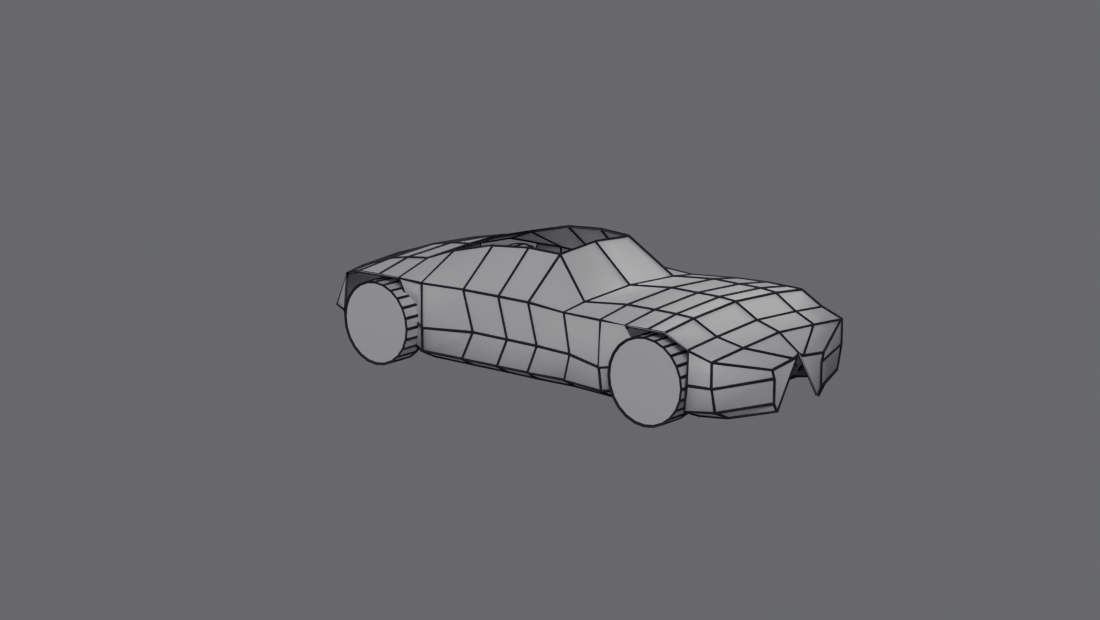
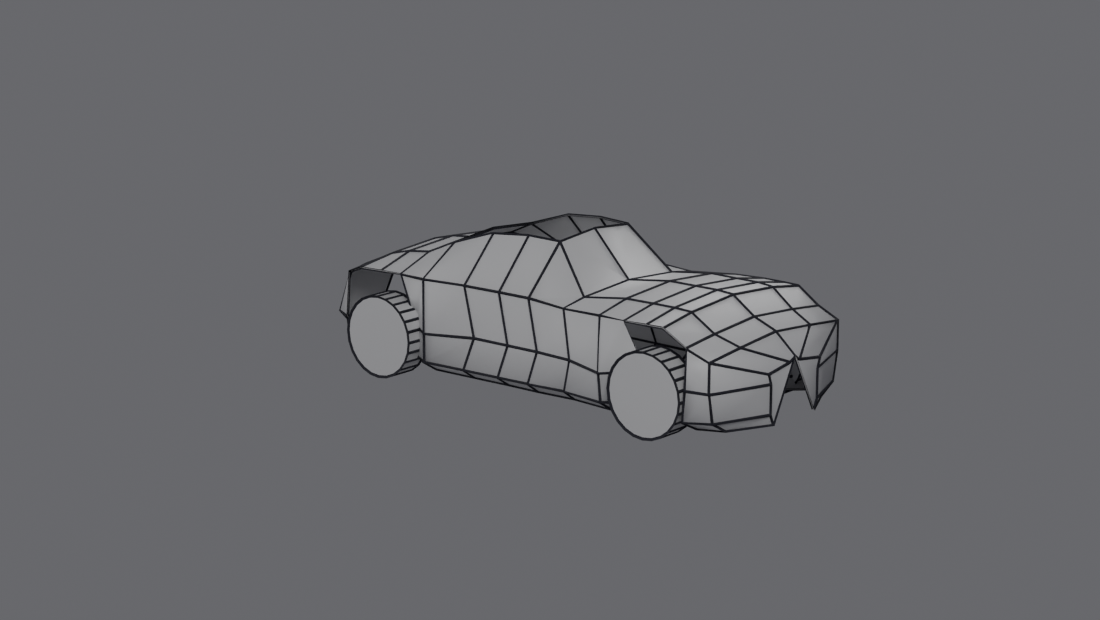
Re-proportion the body to the hero image's stance
Measured off the extracted reference rather than eyeballed: wheelbase divided
by roof height is 2.07 in the hero image against 2.57 as modelled, putting the
roof at 1051mm where the reference implies 1304mm. Scaling heights by 1.241
above the floor line brings it to 1278mm, a ratio of 2.11.

That single number is most of what made the model feel wrong. It was a flat
wedge where the reference is tall and muscular, and no amount of section or
crease work addresses a stance error.

Two other measurements from the same image were discarded rather than used.
Overall length is unusable because the frame clips the rear, which makes the
2.95 aspect ratio it yields meaningless. A tyre-diameter check failed too,
since the dark bodywork above each wheel merges with the tyre. Only ratios
whose endpoints are fully in frame survive.

Reference images are extracted to refs/ but left uncommitted — they are Optic
output from a Toyota tenant and this repository's visibility is unconfirmed.

Claude-Session: https://claude.ai/code/session_01Xx3q3FEn98y7dLvRCxTUeL

Changed region(s): [[0.3091, 0.3371, 0.7727, 0.7048]]

diff --git a/models/car_blockout.py b/models/car_blockout.py
@@ -135,30 +135,38 @@ def creases():
 # Modelling it as one width at every height gives a slab with holes cut in it,
 # which is what it was, and no amount of profile or crease tuning rescues that.
 PROFILE = [
-    ( 2.079, 0.49, 0.06, 0.33, 0.30, 0.30, 0.26),   # prow
-    ( 1.900, 0.62, 0.45, 0.83, 0.83, 0.78, 0.62),
-    ( 1.700, 0.68, 0.50, 0.85, 0.86, 0.88, 0.70),
-    ( 1.500, 0.79, 0.52, 0.87, 0.57, 0.57, 0.50),   # tub narrows, flare stays
-    ( 1.351, 0.80, 0.53, 0.88, 0.56, 0.58, 0.50),   # front axle
-    ( 1.150, 0.80, 0.53, 0.89, 0.60, 0.67, 0.56),
-    ( 0.900, 0.80, 0.54, 0.86, 0.88, 0.85, 0.70),
-    ( 0.500, 0.76, 0.55, 0.80, 0.73, 0.79, 0.66),
-    ( 0.150, 1.06, 0.42, 0.80, 0.70, 0.81, 0.68),   # screen
-    (-0.150, 1.07, 0.44, 0.80, 0.70, 0.82, 0.68),   # canopy crown
-    (-0.500, 1.04, 0.46, 0.81, 0.70, 0.83, 0.69),
-    (-0.900, 0.94, 0.47, 0.85, 0.85, 0.85, 0.70),
-    (-1.150, 0.85, 0.50, 0.84, 0.67, 0.69, 0.58),
-    (-1.351, 0.83, 0.52, 0.86, 0.65, 0.66, 0.56),   # rear axle
-    (-1.550, 0.79, 0.51, 0.88, 0.69, 0.69, 0.58),
-    (-1.750, 0.72, 0.50, 0.81, 0.84, 0.81, 0.66),
-    (-1.942, 0.66, 0.42, 0.60, 0.73, 0.50, 0.40),   # tail
+    ( 2.079, 0.58, 0.06, 0.33, 0.30, 0.30, 0.26),   # prow
+    ( 1.900, 0.74, 0.45, 0.83, 0.83, 0.78, 0.62),
+    ( 1.700, 0.82, 0.50, 0.85, 0.86, 0.88, 0.70),
+    ( 1.500, 0.96, 0.52, 0.87, 0.57, 0.57, 0.50),   # tub narrows, flare stays
+    ( 1.351, 0.97, 0.53, 0.88, 0.56, 0.58, 0.50),   # front axle
+    ( 1.150, 0.97, 0.53, 0.89, 0.60, 0.67, 0.56),
+    ( 0.900, 0.97, 0.54, 0.86, 0.88, 0.85, 0.70),
+    ( 0.500, 0.92, 0.55, 0.80, 0.73, 0.79, 0.66),
+    ( 0.150, 1.29, 0.42, 0.80, 0.70, 0.81, 0.68),   # screen
+    (-0.150, 1.30, 0.44, 0.80, 0.70, 0.82, 0.68),   # canopy crown
+    (-0.500, 1.27, 0.46, 0.81, 0.70, 0.83, 0.69),
+    (-0.900, 1.14, 0.47, 0.85, 0.85, 0.85, 0.70),
+    (-1.150, 1.03, 0.50, 0.84, 0.67, 0.69, 0.58),
+    (-1.351, 1.01, 0.52, 0.86, 0.65, 0.66, 0.56),   # rear axle
+    (-1.550, 0.96, 0.51, 0.88, 0.69, 0.69, 0.58),
+    (-1.750, 0.87, 0.50, 0.81, 0.84, 0.81, 0.66),
+    (-1.942, 0.80, 0.42, 0.60, 0.73, 0.50, 0.40),   # tail
 ]
 
+# Heights scaled up by 1.241 above the floor line. Measured off the hero image:
+# wheelbase divided by roof height is 2.07 there, against 2.57 as first built,
+# which put the roof at 1051mm where the reference implies 1304mm. That single
+# ratio is most of the difference in feel — the car was a flat wedge where the
+# reference is tall and muscular. Both wheel centres and the roof are fully in
+# frame so the ratio is trustworthy, unlike overall length: the image is
+# cropped hard at the rear, so anything derived from car length is not.
+#
 # Heights of the lower rings. The flare rides just under the top surface but
 # never above 0.72, so it stays put through the tall cabin instead of being
 # dragged up with the canopy.
-FLARE_Z_MAX, FLARE_GAP = 0.72, 0.06
-WAIST_Z, ROCKER_Z, FLOOR_Z = 0.36, 0.17, 0.10
+FLARE_Z_MAX, FLARE_GAP = 0.869, 0.075
+WAIST_Z, ROCKER_Z, FLOOR_Z = 0.423, 0.187, 0.10
 
 STATIONS = [{"x": x, "top_z": tz, "edge_w": ew, "flare_w": fw,
              "waist_w": ww, "rocker_w": rw, "floor_w": flw}

diff --git a/docs/workflow-lessons.md b/docs/workflow-lessons.md
@@ -1,8 +1,7 @@
 # Workflow lessons — mirrored from the blender-car-modeler skill
 
-The live copy lives in the skill's `references/workflow-lessons.md`, inside the
-session container, which is reclaimed when the session ends. This mirror is the
-durable one.
+Live copy is in the skill inside the session container, which is reclaimed
+when the session ends. This mirror is the durable one.
 
 ---
 
@@ -51,6 +50,23 @@ dense geometry directly. Mirror across the centreline rather than modelling
 both sides. Modifier order is Mirror then Subsurf, and the mirror needs
 clipping on so the centreline seam welds instead of splitting open under
 subdivision.
+
+**Measure the hero image, do not just look at it (2026-09-02).** With the
+references packed into the .blend they can be extracted and measured from
+pixels. The ratio that mattered: WHEELBASE DIVIDED BY ROOF HEIGHT is 2.07 in
+the hero image against 2.57 as modelled, which put the roof at 1051mm where the
+reference implies 1304mm. That one number was most of the difference in feel —
+a flat wedge instead of a tall muscular form.
+
+Pick ratios whose endpoints are fully in frame. Overall length was NOT usable:
+the image is cropped hard at the rear, so an aspect ratio of 2.95 measured from
+it is meaningless, and a tyre-diameter check failed too because the dark body
+above the wheel merges with the tyre. Two of three measurements had to be
+thrown away — check what is actually in frame before trusting any of them.
+
+To extract packed images: img.filepath_raw = path; img.file_format='PNG';
+img.save(). Pixels come out via img.pixels.foreach_get into a numpy array,
+which arrives bottom-up so needs flipping.
 
 **THE section architecture (2026-09-02) — the single biggest thing missed.**
 The reference is a NARROW CENTRAL TUB with WIDE FENDER FLARES bursting out at
